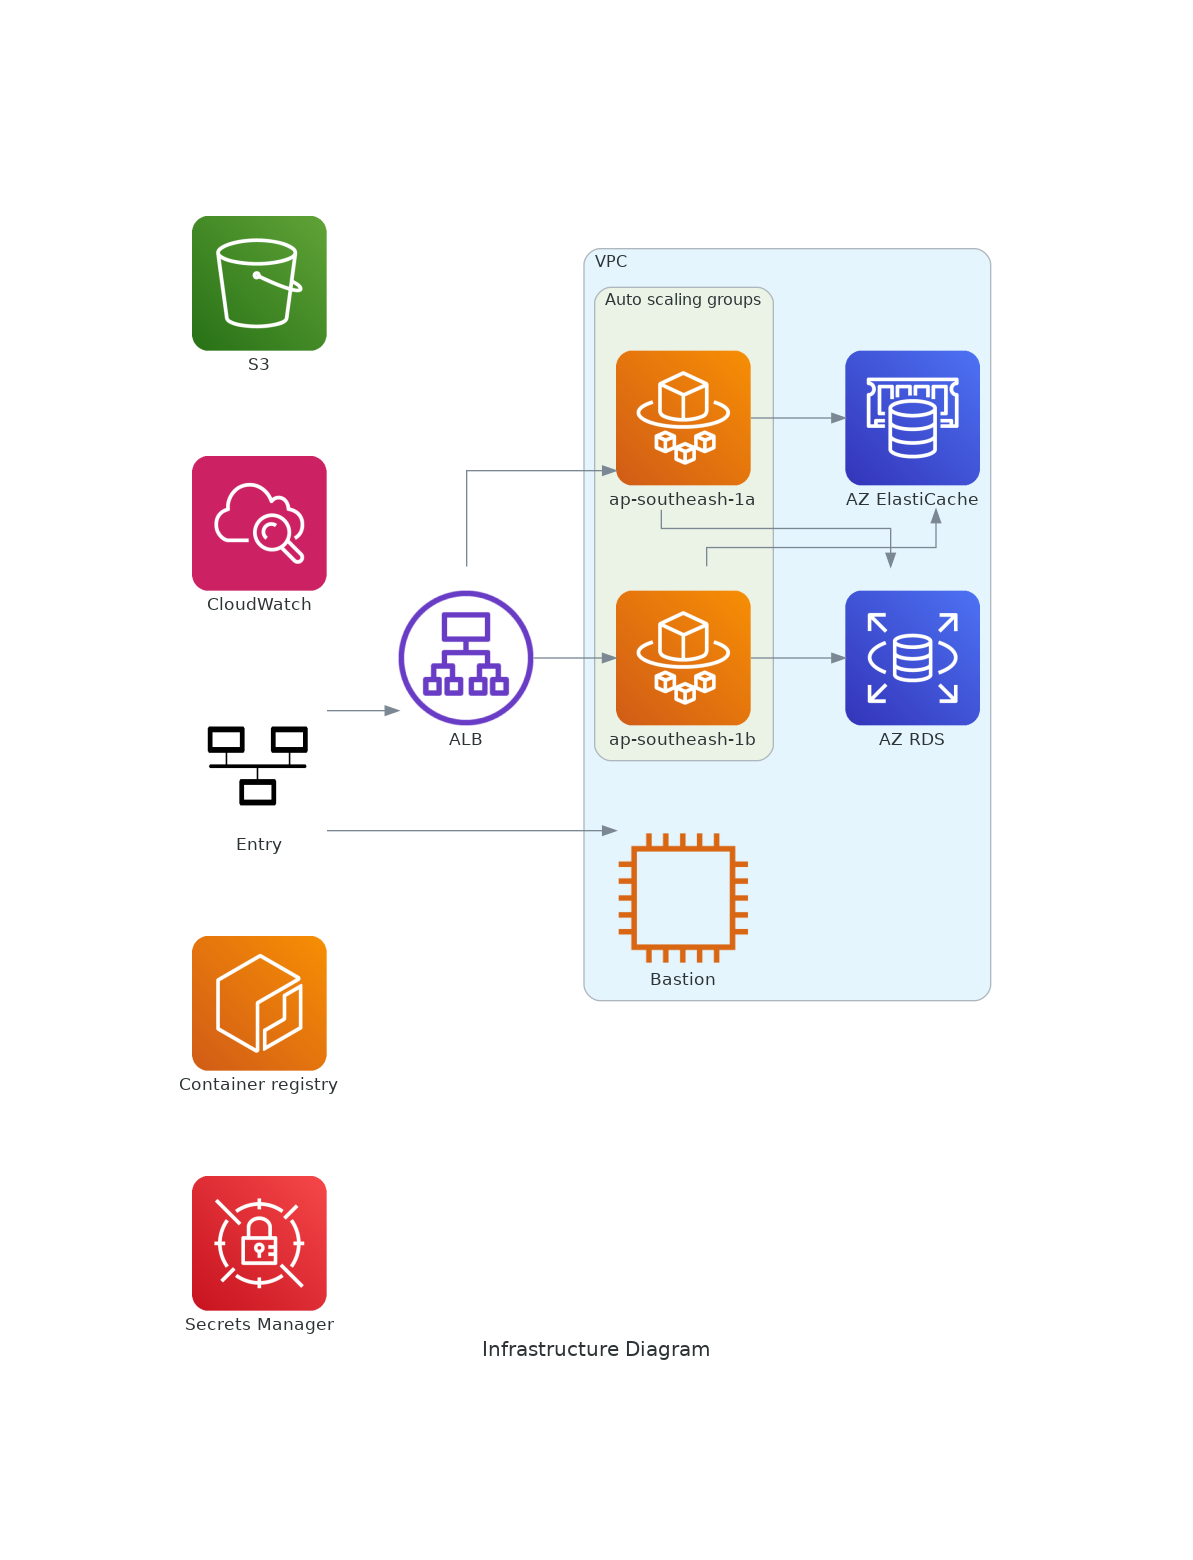
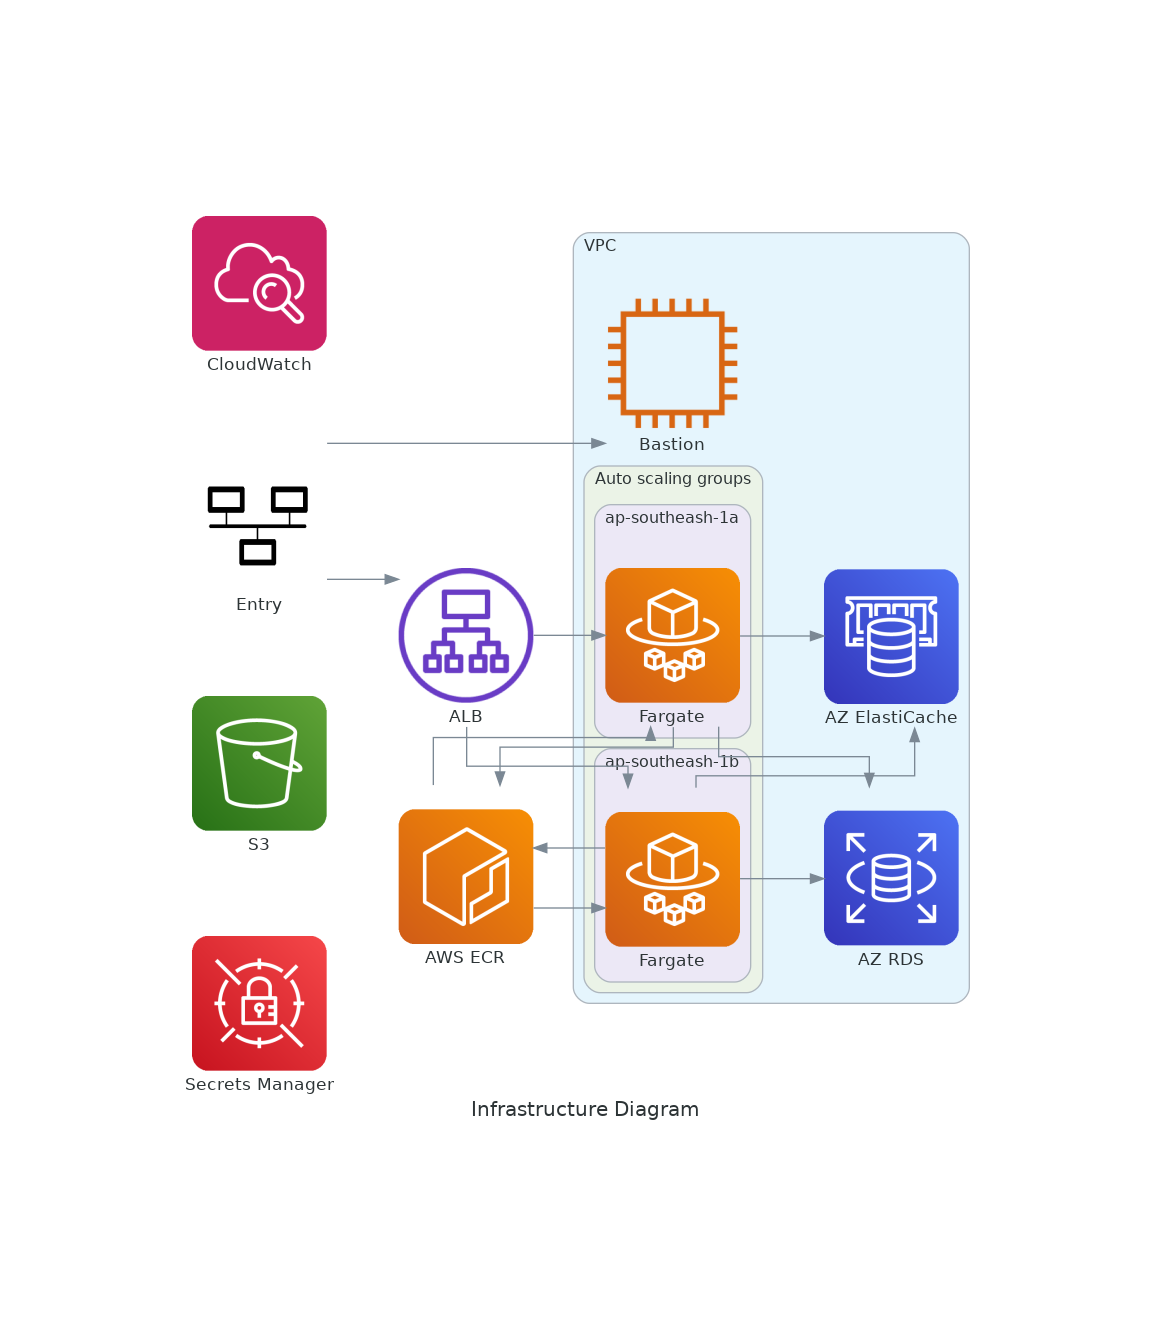
[#15] Add connection between ECR and Fargate

diff --git a/.github/wiki/bin/create_diagram.py b/.github/wiki/bin/create_diagram.py
@@ -17,30 +17,37 @@ from diagrams.aws.compute import ECR
 
 def main():
     with Diagram("Infrastructure Diagram", show=False):
-
         SecretsManager("Secrets Manager")
-        ECR("Container registry")
+        S3("S3")
 
         entry = Subnet("Entry")
 
         lb = ALB("ALB")
 
         Cloudwatch("CloudWatch")
-        S3("S3")
+
+        ecr = ECR("AWS ECR")
 
         with Cluster("VPC"):
             bastion = EC2Instance("Bastion")
 
             with Cluster("Auto scaling groups"):
-                svc_group = [Fargate("ap-southeash-1a"), Fargate("ap-southeash-1b")]
+                with Cluster("ap-southeash-1a"):
+                    fargate_zone_one = Fargate("Fargate")
+                with Cluster("ap-southeash-1b"):
+                    fargate_zone_two = Fargate("Fargate")
+
+                fargate_list = [fargate_zone_one, fargate_zone_two]
 
             db_primary = RDS("AZ RDS")
             cache = ElastiCache("AZ ElastiCache")
 
-            entry >> lb >> svc_group
+            entry >> lb >> fargate_list
             entry >> bastion
-            svc_group >> db_primary
-            svc_group >> cache
+            fargate_list >> db_primary
+            fargate_list >> cache
+            fargate_list >> ecr
+            ecr >> fargate_list
 
 
 if __name__ == "__main__":
